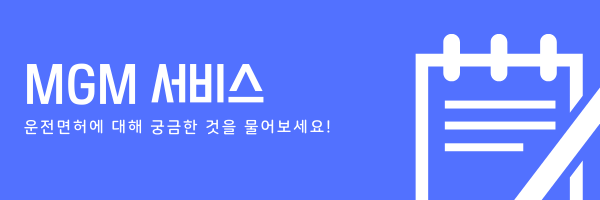
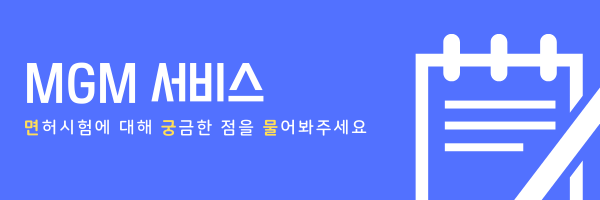
알림창 수정

diff --git a/src/views/components/BasicElementsSection.vue b/src/views/components/BasicElementsSection.vue
@@ -1,23 +1,23 @@
 <template>
   <div class="wrapper">
 
+    <div class="alert alert-success">
+      <div class="container">
+        <button type="button" aria-hidden="true" class="close" @click="event => removeNotify(event,'alert-success')">
+          <md-icon>clear</md-icon>
+        </button>
+        <div class="alert-icon">
+          <md-icon>toys</md-icon>
+        </div>
+        안녕하세요! MGM 서비스입니다.
+        <p>
+          운전면허 시험에 대해 궁금한 것을 질문해주세요!
+        </p>
+      </div>
+    </div>
+
     <div v-if="isMobile">
 
-      <div class="alert alert-warning">
-        <div class="container">
-          <button type="button" aria-hidden="true" class="close" @click="event => removeNotify(event,'alert-warning')">
-            <md-icon>clear</md-icon>
-          </button>
-          <div class="alert-icon">
-            <md-icon>warning</md-icon>
-          </div>
-          <b> 해상도 최적화 </b>
-          <p>
-            : 이 페이지는 PC 화면에 최적화 되어있습니다! <br>
-            모바일에서는 화면이 일부 겹쳐보일 수 있습니다.
-          </p>
-        </div>
-      </div>
         <iframe
             src='https://webchat.botframework.com/embed/MGMbot?s=1yJdze_CsLw.L2e0hOiGvlXoX9kkxVP-mNjjA9Wsp9uoqYyRVP89Hdc'
             style='min-width: 200px; width: 100%; min-height: 600px;'></iframe>
@@ -25,22 +25,6 @@
       </div>
 
     <div v-else>
-
-      <div class="alert alert-success">
-        <div class="container">
-          <button type="button" aria-hidden="true" class="close" @click="event => removeNotify(event,'alert-success')">
-            <md-icon>clear</md-icon>
-          </button>
-          <div class="alert-icon">
-            <md-icon>toys</md-icon>
-          </div>
-          안녕하세요! MGM 서비스입니다.
-          <p>
-            운전면허 시험에 대해 궁금한 것을 질문해주세요!
-          </p>
-        </div>
-      </div>
-
       <iframe
           src='https://webchat.botframework.com/embed/MGMbot?s=1yJdze_CsLw.L2e0hOiGvlXoX9kkxVP-mNjjA9Wsp9uoqYyRVP89Hdc'
           style='min-width: 200px; width: 100%; min-height: 800px;'></iframe>
